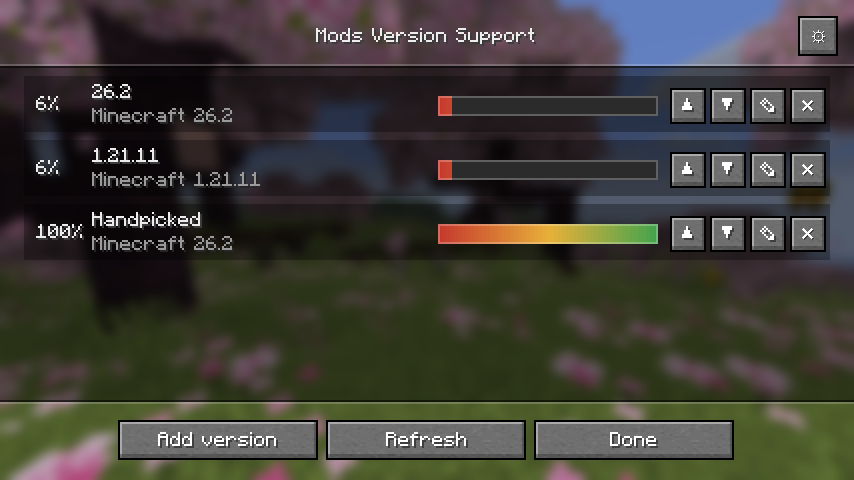
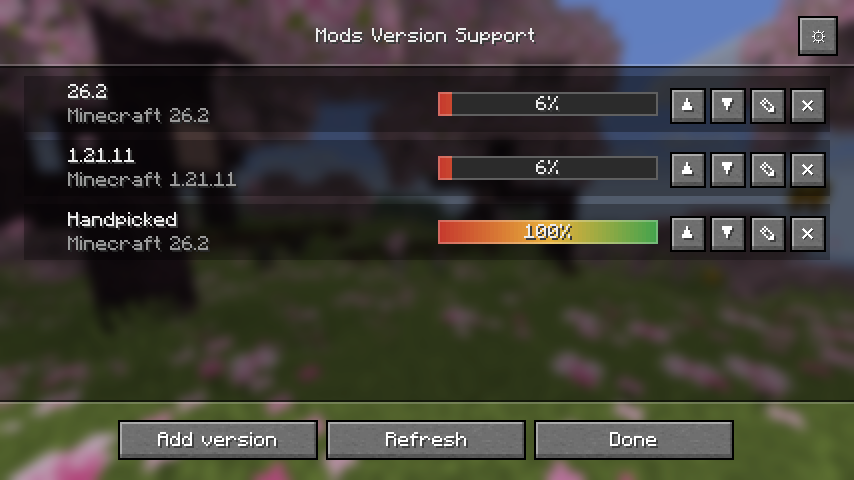
feat: put the percentage onto the bar and enlarge the spinner

diff --git a/src/client/java/de/stefantasie/modsversionsupport/ui/screen/overview/ProfileRow.java b/src/client/java/de/stefantasie/modsversionsupport/ui/screen/overview/ProfileRow.java
@@ -22,8 +22,8 @@ public final class ProfileRow extends ContainerObjectSelectionList.Entry<Profile
 
 	private static final int BUTTON_SIZE = 18;
 	private static final int BAR_WIDTH = 110;
-	private static final int BAR_HEIGHT = 10;
-	private static final int STATUS_WIDTH = 34;
+	private static final int BAR_HEIGHT = 12;
+	private static final int SPINNER_WIDTH = 22;
 	private static final float DIMMED = 0.45f;
 
 	private final VersionProfile profile;
@@ -76,19 +76,12 @@ public final class ProfileRow extends ContainerObjectSelectionList.Entry<Profile
 		int right = getContentRight();
 
 		extractor.fill(left, top, right, getContentBottom(), Palette.withAlpha(Palette.ROW_BACKGROUND, alpha));
-		drawStatus(extractor, current, left, top, alpha);
-		drawLabels(extractor, left + STATUS_WIDTH, top, alpha);
+		if (current.running()) {
+			Spinner.draw(extractor, left + 4, top + (getContentHeight() - Spinner.SIZE) / 2);
+		}
+		drawLabels(extractor, left + SPINNER_WIDTH, top, alpha);
 		drawBar(extractor, current, right, top, alpha);
 		layoutButtons(extractor, right, top, mouseX, mouseY, partialTick);
-	}
-
-	private void drawStatus(GuiGraphicsExtractor extractor, CheckStatus current, int left, int top, float alpha) {
-		if (current.running()) {
-			Spinner.draw(extractor, left + 8, top + 8);
-			return;
-		}
-		String percent = current.report().map(report -> report.percent() + "%").orElse("--");
-		extractor.text(font, percent, left + 6, top + 10, Palette.withAlpha(Palette.TEXT, alpha));
 	}
 
 	private void drawLabels(GuiGraphicsExtractor extractor, int left, int top, float alpha) {
@@ -99,12 +92,20 @@ public final class ProfileRow extends ContainerObjectSelectionList.Entry<Profile
 
 	private void drawBar(GuiGraphicsExtractor extractor, CheckStatus current, int right, int top, float alpha) {
 		int barLeft = right - buttonBlockWidth() - BAR_WIDTH - 6;
+		int barTop = top + (getContentHeight() - BAR_HEIGHT) / 2;
 		if (current.running()) {
-			SupportBar.drawProgress(extractor, barLeft, top + 10, BAR_WIDTH, BAR_HEIGHT, current.progress().fraction(), alpha);
-			return;
+			SupportBar.drawProgress(extractor, barLeft, barTop, BAR_WIDTH, BAR_HEIGHT, current.progress().fraction(), alpha);
+		} else {
+			double supported = current.report().map(report -> report.supportedRatio()).orElse(0d);
+			SupportBar.drawResult(extractor, barLeft, barTop, BAR_WIDTH, BAR_HEIGHT, supported, alpha);
 		}
-		double supported = current.report().map(report -> report.supportedRatio()).orElse(0d);
-		SupportBar.drawResult(extractor, barLeft, top + 10, BAR_WIDTH, BAR_HEIGHT, supported, alpha);
+		drawPercentOnBar(extractor, current, barLeft, barTop, alpha);
+	}
+
+	private void drawPercentOnBar(GuiGraphicsExtractor extractor, CheckStatus current, int barLeft, int barTop, float alpha) {
+		Component percent = Component.literal(current.report().map(report -> report.percent() + "%").orElse("--"));
+		int textLeft = barLeft + (BAR_WIDTH - font.width(percent)) / 2;
+		extractor.text(font, percent, textLeft, barTop + 2, Palette.withAlpha(Palette.TEXT, alpha), true);
 	}
 
 	private void layoutButtons(GuiGraphicsExtractor extractor, int right, int top, int mouseX, int mouseY, float partialTick) {

diff --git a/src/client/java/de/stefantasie/modsversionsupport/ui/widget/progress/Spinner.java b/src/client/java/de/stefantasie/modsversionsupport/ui/widget/progress/Spinner.java
@@ -3,25 +3,36 @@ package de.stefantasie.modsversionsupport.ui.widget.progress;
 import de.stefantasie.modsversionsupport.ui.theme.Palette;
 import net.minecraft.client.gui.GuiGraphicsExtractor;
 
-/** Four dots circling while a check runs. */
+/** Dots circling while a check runs, the leading one brightest. */
 public final class Spinner {
 
-	private static final int DOTS = 4;
-	private static final int DOT_SIZE = 2;
-	private static final long STEP_MILLIS = 140;
-	private static final int[] OFFSETS_X = {2, 5, 5, 2};
-	private static final int[] OFFSETS_Y = {2, 2, 5, 5};
+	public static final int SIZE = 14;
+
+	private static final int DOTS = 8;
+	private static final int DOT_SIZE = 3;
+	private static final int RADIUS = 5;
+	private static final long STEP_MILLIS = 110;
+	private static final float DIMMEST = 0.15f;
 
 	private Spinner() {
 	}
 
 	public static void draw(GuiGraphicsExtractor extractor, int x, int y) {
+		int centreX = x + SIZE / 2;
+		int centreY = y + SIZE / 2;
 		int lead = (int) (System.currentTimeMillis() / STEP_MILLIS % DOTS);
+
 		for (int dot = 0; dot < DOTS; dot++) {
-			float brightness = dot == lead ? 1f : 0.35f;
-			int left = x + OFFSETS_X[dot];
-			int top = y + OFFSETS_Y[dot];
-			extractor.fill(left, top, left + DOT_SIZE, top + DOT_SIZE, Palette.withAlpha(Palette.TEXT, brightness));
+			double angle = 2 * Math.PI * dot / DOTS;
+			int left = centreX + (int) Math.round(Math.cos(angle) * RADIUS) - DOT_SIZE / 2;
+			int top = centreY + (int) Math.round(Math.sin(angle) * RADIUS) - DOT_SIZE / 2;
+			extractor.fill(left, top, left + DOT_SIZE, top + DOT_SIZE,
+					Palette.withAlpha(Palette.TEXT, brightnessOf(dot, lead)));
 		}
+	}
+
+	private static float brightnessOf(int dot, int lead) {
+		int distance = Math.floorMod(lead - dot, DOTS);
+		return Math.max(DIMMEST, 1f - distance / (float) DOTS);
 	}
 }
